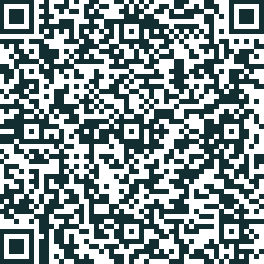
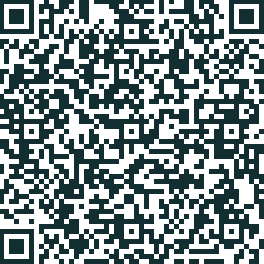
Qr now is sent to discord

diff --git a/Controller.js b/Controller.js
@@ -53,16 +53,31 @@ function start(client) {
 class Bot{
     constructor(){
         this.running = false
-        this.qr = new Promise()
     }
 
-    async activate(){
+    async activate(contact, message){
         if(!this.running){
             this.client = await create('Matricula-bot', (base64Qr, asciiQR, attempts, urlCode) => {
-                this.qr = asciiQR
+                var matches = base64Qr.match(/^data:([A-Za-z-+\/]+);base64,(.+)$/),
+                response = {};
+                if (matches.length !== 3) {
+                    return new Error('Invalid input string');
+                }
+                response.type = matches[1];
+                response.data = new Buffer.from(matches[2], 'base64');
+                var imageBuffer = response;
+                fs.writeFile('out.png', imageBuffer['data'], 'binary', function (err) {
+                    if (err != null) {
+                      console.log(err);
+                    }
+                });
+                message.channel.send({files: [{
+                    attachment: 'out.png',
+                    name: 'out.png',
+                    description: 'A description of the file'
+                  }]})
             }, undefined, { logQR: false })
             this.running = true
-            start(this.client)
         }
     }
 

diff --git a/Main.js b/Main.js
@@ -1,5 +1,5 @@
 import { bot } from './Controller.js'
-import { Client, Intents } from '../Dependencies/Index.js'
+import { Client, Intents } from './Dependencies/Index.js'
 import { TextSender } from './Discord/TextSender.js'
 
 const client = new Client({ intents: [Intents.FLAGS.GUILDS, Intents.FLAGS.GUILD_MESSAGES, 
@@ -22,8 +22,8 @@ client.on('guildDelete', () => {
 client.on("messageCreate", async (message) => {
     if (message.author.bot) return false; 
     if(message.content === "ativar"){
-        bot.activate()
-        TextSender.delivText(['Beleza, já ativei.'], message)
+        bot.activate(TextSender.sendImage, message)
+        TextSender.delivText(['Beleza, vou ativar.'], message)
     } else if(message.content === "desativar"){
 
     }
